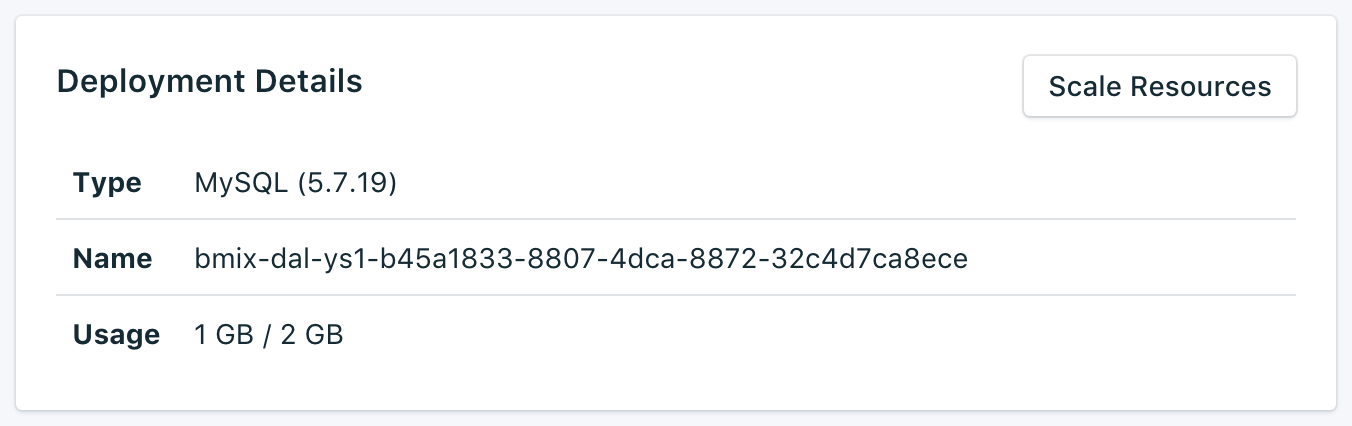
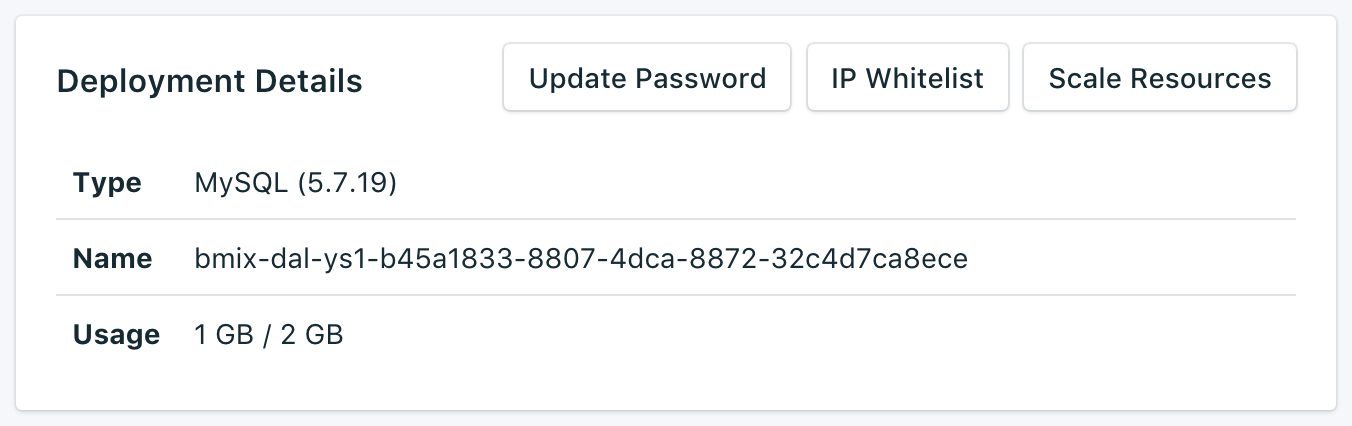
Oct 17 updates

Changed region(s): [[0.3728, 0.0915, 0.963, 0.2746], [0.3728, 0.1526, 0.7456, 0.2136]]

diff --git a/dashboard-whitelists.md b/dashboard-whitelists.md
@@ -1,0 +1,37 @@
+---
+
+Copyright:
+  Years: 2017
+lastupdated: "2017-10-16"
+---
+
+{:new_window: target="_blank"}
+{:shortdesc: .shortdesc}
+{:screen: .screen}
+{:codeblock: .codeblock}
+{:pre: .pre}
+
+# Whitelists
+
+If you want to restict access to your databases, you can whitelist specific ip addresses or ranges of ip addresses on your service. When there are no IP addresses in the whitelist, the whitelist is disabled and the deployment will accept connections from any system on the internet.
+
+![Whitelisting IPs](./images/mysql-whitelist-show.png "The whitelist fields.")
+
+## IP Addresses
+The *IP* field can take a single complete IPv4 address or IPv6 address with or without a netmask. Without a netmask, incoming connections must come from exactly that IP address. 
+
+Note that although the IP entry allows for IPv6, no Compose deployments are currently available to IPv6 networking and so these addresses cannot be filtered on.
+
+## Netmasks
+To allow a connection from a specified range of IP addresses, use a netmask. The IP address must be fully specified when using a netmask. That means entering, for example, 192.168.1.0/24 rather than 192.168.1/24.
+
+## Description
+The *Description* can be any user-significant text for identifying the whitelist entry - a customer name, project identifier or employee number, for example. The description field is required.
+
+## Compose Services
+Whitelist entries are automatically added to Compose's servers to allow them to connect.
+
+## Removal
+To remove an IP address or netmask from the Whitelist, click the *Remove* entry displayed next to it.
+When all entries on the whitelist are removed, the whitelist will be disabled and all IP addresses will be accepted by the TCP access portals.
+

diff --git a/dashboard-update-service-password.md b/dashboard-update-service-password.md
@@ -1,0 +1,31 @@
+---
+
+Copyright:
+  Years: 2017
+lastupdated: "2017-10-16"
+---
+
+{:new_window: target="_blank"}
+{:shortdesc: .shortdesc}
+{:screen: .screen}
+{:codeblock: .codeblock}
+{:pre: .pre}
+
+# Updating the Service Password
+
+You might find it necessary to change the password of your service. You can do so using _Update Password_. 
+
+A new, randomly generated password will appear, or you can type your own password into the field. To regenerate another password, click on the dice to the right of the field. 
+  
+![Updating the etcd password](./images/mysql-update-password.png "The automatic password generator")
+
+The changes take effect when you click on the **Update Password** button. This will change the credentials that you and your services use to connect and is a part of your service's connection string. The _Deployment Details_ pane will show the progress of the job that is now in progress:
+
+![Update password job running](./images/mysql-update-password-running.png "The Deployment Details pane, showing one running job: Change Mysql password running")
+
+## Updating Connected Applications
+Changing the password will invalidate the existing connection string and generate a new one. This will cause a service interruption until connected applications are updated with the new connection string. You will have to do this by suppling the new connection string to your applications.
+
+More information on connecting your applications is in [Connecting a Bluemix Application](./connecting-bluemix-app.html).
+and [Connecting an external application](./connecting-external.html).
+

diff --git a/dashboard-backups.md b/dashboard-backups.md
@@ -2,7 +2,7 @@
 
 copyright:
   years: 2017
-lastupdated: "2017-07-27"
+lastupdated: "2017-10-16"
 ---
 
 {:new_window: target="_blank"}
@@ -22,6 +22,10 @@ Daily backups of your database are automatically scheduled. To view your existin
 
 ![Backups](./images/mysql-backups-show.png "A list of available backups")
 
+Click on the corresponding row to expand the options for any available backup.
+
+![Backup Options](./images/mysql-backups-options.png "Options for a backup.") 
+
 ## Creating a backup on demand
 
 As well as scheduled backups you can create a backup manually. To create a manual backup, navigate to the *Manage* page of your service dashboard and click *Backup now*.
@@ -29,3 +33,7 @@ As well as scheduled backups you can create a backup manually. To create a manua
 ## Downloading a backup
 
 To download a backup, navigate to the *Manage* page of your service dashboard and click *Download* in the corresponding row for the backup you wish to download.
+
+## Restoring a backup
+
+To restore a backup to a new service instance, follow the steps to view existing backups, then click in the corresponding row to expand the options for the backup you want to download. Click on the **Restore** button. A message is displayed to let you know that a resotre has been initiated. The new service instance will automatically be named "mysql-restore-[timestamp]", and appears on your dashboard when provisioning starts.

diff --git a/index.md b/index.md
@@ -2,7 +2,7 @@
 
 copyright:
   years: 2016,2017
-lastupdated: "2017-07-13"
+lastupdated: "2017-10-16"
 ---
 
 {:new_window: target="_blank"}
@@ -29,7 +29,8 @@ When you provision your {{site.data.keyword.composeForMySQL}} instance you can c
 
 ## Managing Compose for MySQL
 
-You can manage your service from the service dashboard. Here you can find information about your Bluemix Compose database and how to connect to it. You can also manage your backups from the dashboard and allocated more resources for your service. For more information, see [Service Overview](./dashboard-overview.html), [Backups](./dashboard-backups.html), and [Scaling Resources](./dashboard-scaling-resources.html).
+You can manage your service from the service dashboard. Here you can find information about your Bluemix Compose database and how to connect to it. You can also manage your backups, allocate more resources for your service, use whitelists to restrict access to your databases, and reset the service password. For more information, see [Service Overview](./dashboard-overview.html), [Backups](./dashboard-backups.html), [Scaling Resources](./dashboard-scaling-resources.html), [Whitelists](./dashboard-whitelists.html), and [Updating the Service Password](./dashboard-update-service-password.html).
+
 
 ## Connecting to Compose for MySQL
 
